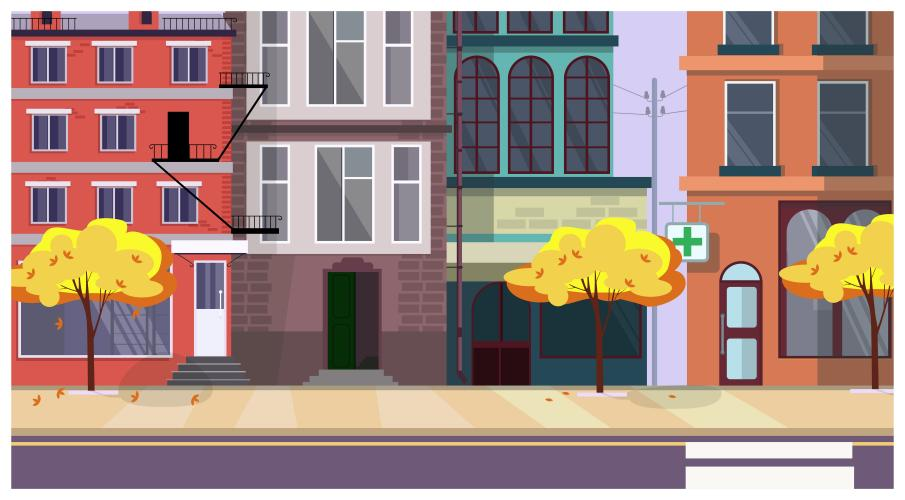
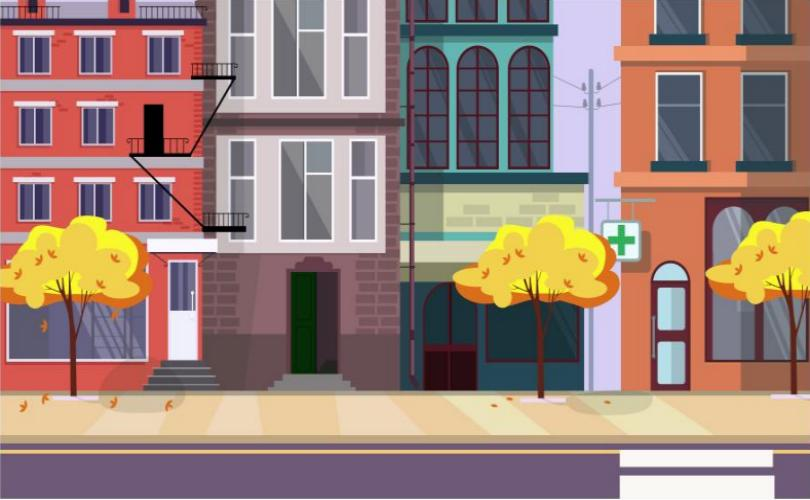
backdrop change on both clients

diff --git a/client/src/components/Canvas/FabricCanvasBoard.js b/client/src/components/Canvas/FabricCanvasBoard.js
@@ -1,18 +1,13 @@
-import React, { useState, useEffect } from 'react'
-import { useSelector } from 'react-redux'
+import React, { useState, useEffect, useCallback } from 'react'
+import { useSelector, useDispatch } from 'react-redux'
 import { Button } from 'react-bootstrap'
 import { fabric } from 'fabric'
 import { v1 as uuid } from 'uuid'
-import {
-  emitAdd,
-  emitModify,
-  addObj,
-  modifyObj,
-  setBackDrop,
-} from '../../utils/wsConn/wsConn'
 import { connectedUserSocketId } from '../../utils/webRTC/webRTCHandler'
 import { backDropUrls } from './backdropUrls'
 import BackDrop from './BackDrop'
+import { setBackDrop } from '../../actions/canvasActions'
+import { emitSetBackDrop } from '../../utils/wsConn/wsConn'
 
 const styles = {
   btn: { border: 'none', margin: '0.5rem' },
@@ -25,9 +20,11 @@ const styles = {
   backDropDiv: { width: '120px', float: 'left' },
 }
 const FabricCanvasBoard = () => {
+  const dispatch = useDispatch()
   const [canvas, setCanvas] = useState('')
   const color = useSelector((state) => state.canvas.color)
   const [pickerVisible, setPickerVisible] = useState(false)
+  const backdrop = useSelector((state) => state.canvas.backdrop)
 
   const initCanvas = () =>
     new fabric.Canvas('canv', {
@@ -36,6 +33,16 @@ const FabricCanvasBoard = () => {
       backgroundColor: 'white',
       border: '1px solid',
     })
+
+  const addBackground = useCallback(
+    (url) => {
+      fabric.Image.fromURL(url, (img) => {
+        canvas.backgroundImage = img
+        canvas.renderAll()
+      })
+    },
+    [canvas]
+  )
 
   useEffect(() => {
     setCanvas(initCanvas())
@@ -53,7 +60,6 @@ const FabricCanvasBoard = () => {
             socket: connectedUserSocketId,
             drawData: modifiedObj,
           }
-          emitModify(drawDataToSend)
         }
       })
 
@@ -67,14 +73,14 @@ const FabricCanvasBoard = () => {
             socket: connectedUserSocketId,
             drawData: modifiedObj,
           }
-          emitModify(drawDataToSend)
         }
       })
-
-      modifyObj(canvas)
-      addObj(canvas)
     }
   }, [canvas])
+
+  useEffect(() => {
+    addBackground(`/img/backdrops/000${backdrop}.jpg`)
+  }, [backdrop, addBackground])
 
   const addShape = (e) => {
     let type = e.target.name
@@ -107,14 +113,6 @@ const FabricCanvasBoard = () => {
       object: { obj: object, id: object.id },
       socket: connectedUserSocketId,
     }
-    emitAdd(drawDataToSend)
-  }
-
-  const addBackground = (url) => {
-    fabric.Image.fromURL(url, (img) => {
-      canvas.backgroundImage = img
-      canvas.renderAll()
-    })
   }
 
   const addImage = () => {
@@ -129,15 +127,16 @@ const FabricCanvasBoard = () => {
 
   const onBackDropSelect = (e) => {
     let backDropId = e.target.id
-    // setSelectedBackDrop(backDropId)
+    togglePicker()
     addBackground(`/img/backdrops/000${backDropId}.jpg`)
-
+    //send to store
+    dispatch(setBackDrop(backDropId))
     //send to server
     let backDropDataToSend = {
       socket: connectedUserSocketId,
       backdrop: backDropId,
     }
-    setBackDrop(backDropDataToSend)
+    emitSetBackDrop(backDropDataToSend)
   }
 
   return (
@@ -150,7 +149,11 @@ const FabricCanvasBoard = () => {
           <div style={{ margin: '20px' }}>
             <p>Choose a backdrop</p>
             {backDropUrls.map((backdrop) => (
-              <div onClick={onBackDropSelect} style={styles.backDropDiv}>
+              <div
+                onClick={onBackDropSelect}
+                style={styles.backDropDiv}
+                key={backdrop.id}
+              >
                 <BackDrop src={backdrop.src} id={backdrop.id} />
               </div>
             ))}

diff --git a/client/src/utils/wsConn/wsConn.js b/client/src/utils/wsConn/wsConn.js
@@ -3,10 +3,11 @@ import { fabric } from 'fabric'
 import * as webRTCHandler from '../webRTC/webRTCHandler'
 import store from '../../store'
 import * as dashboardActions from '../../actions/dashboardActions'
+import * as canvasActions from '../../actions/canvasActions'
 
 // const SERVER = 'http://playgroundonline.netlify.app/'
-const SERVER = 'https://playgroundonline.herokuapp.com/'
-// const SERVER = 'http://localhost:5000'
+// const SERVER = 'https://playgroundonline.herokuapp.com/'
+const SERVER = 'http://localhost:5000'
 
 const broadcastEventTypes = {
   ACTIVE_USERS: 'ACTIVE_USERS',
@@ -18,8 +19,8 @@ export const connectWithWebSocket = () => {
   socket = socketClient(SERVER)
 
   socket.on('connection', () => {
-    console.log('Successfully connected wit web socket server ')
-    console.log(socket.id)
+    console.log('Successfully connected with web socket server ')
+    console.log('mySocket:', socket.id)
     mySocketId = socket.id
   })
 
@@ -80,6 +81,7 @@ export const connectWithWebSocket = () => {
     console.log('receiving draw data back from server', data)
     webRTCHandler.handleReceivedDrawData(data)
   })
+
   //listener for adding a new shape to canvas
   // socket.on('new-add', (data) => {
   //   //TODO
@@ -177,13 +179,18 @@ export const sendGameState = (gameState) => {
   console.log('emitting game state change')
 }
 
-//canvas emit events to server
 export const sendDraw = (drawData) => {
   socket.emit('draw', drawData)
   console.log('emitting draw event to server with drawData payload')
   console.log(drawData)
 }
+
 //shape add event for canvas
+export const handleBackDrop = (data) => {
+  store.dispatch(canvasActions.setBackDrop(data))
+  console.log('dispatching backDrop to store')
+}
+
 export const emitAdd = (obj) => {
   console.log('emitting add shape event to server')
   socket.emit('object-added', obj)
@@ -246,7 +253,7 @@ export const eraseBoard = (canvas) => {
   })
 }
 
-export const setBackDrop = (data) => {
+export const emitSetBackDrop = (data) => {
   socket.emit('backdrop', data)
   console.log('sending backdrop set to server')
 }

diff --git a/client/src/components/Canvas/ColorPicker.js b/client/src/components/Canvas/ColorPicker.js
@@ -1,17 +1,24 @@
-import React, { useState } from 'react'
-import { useDispatch } from 'react-redux'
-import { CirclePicker } from 'react-color'
+import React, { useState, useEffect } from 'react'
+import { useDispatch, useSelector } from 'react-redux'
+import { CirclePicker, CustomPicker } from 'react-color'
 import { Button } from 'react-bootstrap'
 import { setColor } from '../../actions/canvasActions'
-function ColorPicker(props) {
+
+const ColorPicker = (props) => {
   const [pickerVisible, setPickerVisible] = useState(false)
   const [pickedColor, setPickedColor] = useState('#eb7134')
   const dispatch = useDispatch()
+  const canvas = useSelector((state) => state.canvas)
+  const { color } = canvas
+
+  useEffect(() => {
+    setPickedColor(color)
+  }, [color])
+
   const styles = {
     colorPickerBtn: {
       backgroundColor: pickedColor,
       border: 'none',
-      margin: '0.5rem',
       alignItems: 'center',
     },
   }
@@ -20,10 +27,9 @@ function ColorPicker(props) {
     setPickerVisible(!pickerVisible)
   }
   const handleColorChange = ({ hex }) => {
-    console.log(hex)
-    setPickedColor(hex)
     //dispatch to store
     dispatch(setColor(hex))
+    togglePicker()
   }
 
   return (
@@ -33,7 +39,15 @@ function ColorPicker(props) {
         Colors
       </Button>
       {pickerVisible && (
-        <div style={{ margin: '20px' }}>
+        <div
+          style={{
+            margin: '15px',
+            backgroundColor: 'white',
+            borderRadius: '20px',
+            width: '16rem',
+            padding: '0.5rem',
+          }}
+        >
           <CirclePicker
             color={pickedColor}
             onChangeComplete={handleColorChange}
@@ -44,4 +58,4 @@ function ColorPicker(props) {
   )
 }
 
-export default ColorPicker
+export default CustomPicker(ColorPicker)

diff --git a/client/src/components/Canvas/CanvasIndex.js b/client/src/components/Canvas/CanvasIndex.js
@@ -1,5 +1,6 @@
 import React from 'react'
 import ColorPicker from './ColorPicker'
+import { Row, Col } from 'react-bootstrap'
 import FabricCanvasBoard from './FabricCanvasBoard'
 
 export const CanvasIndex = () => {
@@ -9,8 +10,17 @@ export const CanvasIndex = () => {
 
   return (
     <div>
-      <ColorPicker onColorPicked={onColorPicked} />
-      <FabricCanvasBoard onColorPicked={onColorPicked} />
+      <Row>
+        <Col>
+          <ColorPicker onColorPicked={onColorPicked} />
+        </Col>
+        <Col></Col>
+      </Row>
+      <Row>
+        <Col>
+          <FabricCanvasBoard />
+        </Col>
+      </Row>
     </div>
   )
 }

diff --git a/client/public/index.html b/client/public/index.html
@@ -8,7 +8,8 @@
       name="description"
       content="PlayGround is an interactive web application designed for kids with enriched activities and a two-way video call."
     />
-
+    <meta name="twitter:image:src" content="%PUBLIC_URL%/screenshot.png" />
+    <meta property="og:image" content="%PUBLIC_URL%/screenshot.png" />
     <!-- fonts -->
     <link rel="preconnect" href="https://fonts.gstatic.com" />
     <link

diff --git a/client/src/utils/webRTC/webRTCHandler.js b/client/src/utils/webRTC/webRTCHandler.js
@@ -43,11 +43,11 @@ const configuration = {
       ],
     },
     //TURN server urls
-    {
-      urls: ['turn:turn.anyfirewall.com:443?transport=tcp'],
-      username: 'webrtc',
-      credentials: 'webrtc',
-    },
+    // {
+    //   urls: ['turn:turn.anyfirewall.com:443?transport=tcp'],
+    //   username: 'webrtc',
+    //   credentials: 'webrtc',
+    // },
   ],
 }
 let connectedUserSocketId

diff --git a/client/src/store.js b/client/src/store.js
@@ -14,6 +14,7 @@ import { callReducer } from './reducers/callReducer'
 import { chessReducer } from './reducers/chessReducers'
 import { canvasReducer } from './reducers/canvasReducer'
 import { bookReducer } from './reducers/bookReducers'
+
 const reducer = combineReducers({
   userLogin: userLoginReducer,
   userRegister: userRegisterReducer,

diff --git a/client/src/App.js b/client/src/App.js
@@ -12,6 +12,7 @@ import RegisterScreen from './screens/RegisterScreen'
 import ProfileScreen from './screens/ProfileScreen'
 import VideoCallDashboard from './components/Videocall/VideoCallDashboard'
 import NotFound from './screens/NotFound'
+
 const App = () => {
   return (
     <Router>
